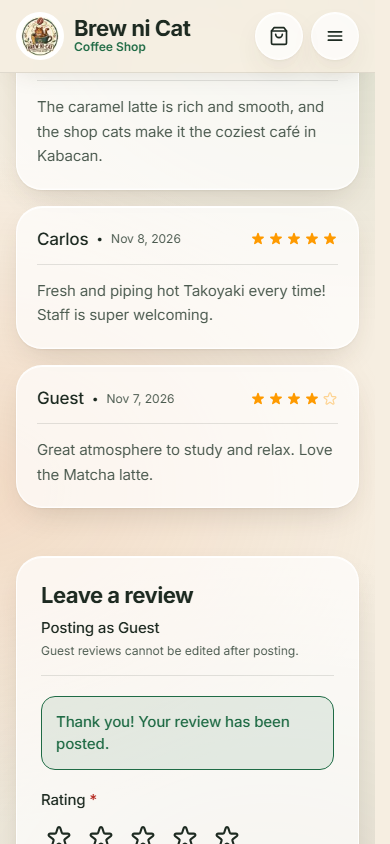
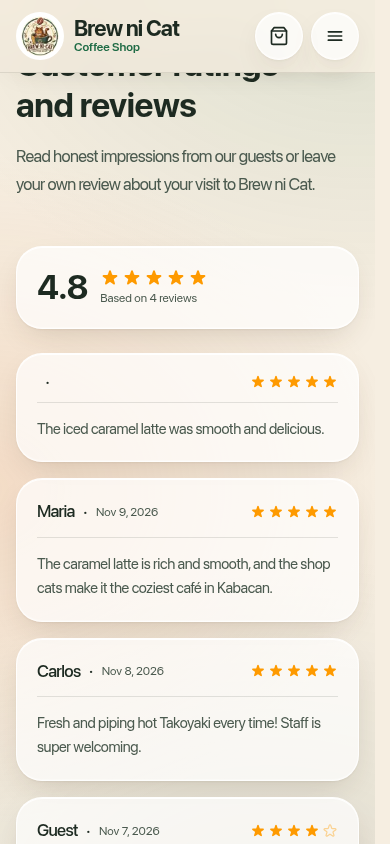
feat(reviews): give the reviews their own page (#135)
* feat(reviews): give the reviews their own page

Add /reviews with the reviews list and form, point the navigation, the home
page's Read all reviews link and the page curtain to it, and forward old
/about#reviews links there.

* docs(reviews): record the reviews page and refresh its evidence

diff --git a/tests/e2e/home-reviews.spec.ts b/tests/e2e/home-reviews.spec.ts
@@ -7,7 +7,7 @@ import { expect, test, type Page } from "@playwright/test";
  * PostgREST is mocked in the browser, so no live database or personal
  * details are used.
  *
- * Set CAPTURE_EVIDENCE=1 to refresh the screenshots in docs/evidence/phase-5/reviews-home/.
+ * Set CAPTURE_EVIDENCE=1 to refresh the screenshots in docs/evidence/phase-5/reviews-home/ (the Reviews page shots too).
  */
 const CAPTURE_EVIDENCE = process.env.CAPTURE_EVIDENCE === "1";
 const EVIDENCE_DIR = "docs/evidence/phase-5/reviews-home";
@@ -82,7 +82,7 @@ async function captureEvidence(page: Page, filename: string) {
 }
 
 async function expectReviewsSectionInView(page: Page) {
-  await expect(page).toHaveURL(/\/about#reviews$/);
+  await expect(page).toHaveURL(/\/reviews$/);
   await expect(page.locator("#reviews")).toBeInViewport();
 }
 
@@ -121,7 +121,7 @@ test.describe("Reviews on the home page (FR-098)", () => {
     await expectReviewsSectionInView(page);
   });
 
-  test("TC-P5-209 — the Reviews link in the desktop and phone navigation opens the reviews on the About page", async ({
+  test("TC-P5-209 — the Reviews link in the desktop and phone navigation opens the Reviews page", async ({
     page,
   }) => {
     await mockReviewsRest(page);
@@ -132,7 +132,7 @@ test.describe("Reviews on the home page (FR-098)", () => {
       name: "Desktop navigation",
     });
     const link = desktop.getByRole("link", { name: "Reviews" });
-    await expect(link).toHaveAttribute("href", "/about#reviews");
+    await expect(link).toHaveAttribute("href", "/reviews");
     await expect(link).toBeVisible();
     const overflow = await page.evaluate(
       () => document.documentElement.scrollWidth - window.innerWidth,
@@ -152,5 +152,44 @@ test.describe("Reviews on the home page (FR-098)", () => {
     await captureEvidence(page, "nav-reviews-phone-390.png");
     await mobileLink.click();
     await expectReviewsSectionInView(page);
+  });
+});
+
+test.describe("The Reviews page (FR-098, update 2026-11-13)", () => {
+  test("TC-P5-217 — reviews have their own page, and old /about#reviews links forward to it", async ({
+    page,
+  }) => {
+    await mockReviewsRest(page);
+    for (const [width, height, name] of [
+      [390, 844, "reviews-page-phone-390.png"],
+      [1440, 900, "reviews-page-desktop-1440.png"],
+    ] as const) {
+      await page.setViewportSize({ width, height });
+      await page.goto("/reviews");
+      await expect(
+        page.getByRole("heading", { level: 1, name: "Reviews" }),
+      ).toBeVisible();
+      const section = page.locator("#reviews");
+      await expect(section.getByText(BODIES[0]!)).toBeVisible();
+      await expect(
+        section.getByRole("heading", { name: "Customer ratings and reviews" }),
+      ).toBeVisible();
+      const overflow = await page.evaluate(
+        () => document.documentElement.scrollWidth - window.innerWidth,
+      );
+      expect(overflow).toBeLessThanOrEqual(0);
+      await section.scrollIntoViewIfNeeded();
+      await captureEvidence(page, name);
+    }
+
+    await page.goto("/about");
+    await expect(
+      page.getByRole("heading", { level: 1, name: "About Brew ni Cat" }),
+    ).toBeVisible();
+    await expect(page.locator("#reviews")).toHaveCount(0);
+
+    await page.goto("/about#reviews");
+    await expect(page).toHaveURL(/\/reviews$/);
+    await expect(page.locator("#reviews")).toBeVisible();
   });
 });

diff --git a/tests/unit/reviews-page.test.tsx b/tests/unit/reviews-page.test.tsx
@@ -1,0 +1,56 @@
+import { render, screen } from "@testing-library/react";
+import { afterEach, describe, expect, it, vi } from "vitest";
+
+import ReviewsPage from "@/app/reviews/page";
+import { ReviewsHashRedirect } from "@/components/reviews/reviews-hash-redirect";
+import { siteConfig } from "@/config/site";
+
+vi.mock("@/components/reviews/reviews-section", () => ({
+  ReviewsSection: () => <section id="reviews" data-testid="reviews-section" />,
+}));
+
+vi.mock("@/components/ui/page-intro", () => ({
+  PageIntro: ({ title }: { title: string }) => <h1>{title}</h1>,
+}));
+
+describe("The Reviews page (FR-098, update 2026-11-13)", () => {
+  afterEach(() => {
+    vi.unstubAllGlobals();
+  });
+
+  it("TC-P5-213 has its own page with the reviews list and form", () => {
+    render(<ReviewsPage />);
+    expect(
+      screen.getByRole("heading", { level: 1, name: "Reviews" }),
+    ).toBeInTheDocument();
+    expect(screen.getByTestId("reviews-section")).toBeInTheDocument();
+  });
+
+  it("TC-P5-214 the navigation's Reviews link opens /reviews, not About", () => {
+    const link = siteConfig.navigation.find((item) => item.label === "Reviews");
+    expect(link?.href).toBe("/reviews");
+  });
+
+  it("TC-P5-215 an old /about#reviews link forwards to /reviews", () => {
+    const replace = vi.fn();
+    vi.stubGlobal("location", {
+      ...window.location,
+      hash: "#reviews",
+      replace,
+    });
+    render(<ReviewsHashRedirect />);
+    expect(replace).toHaveBeenCalledWith("/reviews");
+  });
+
+  it("TC-P5-216 the About page without the hash stays put", () => {
+    const replace = vi.fn();
+    const location = { ...window.location, hash: "", replace };
+    vi.stubGlobal("location", location);
+    render(<ReviewsHashRedirect />);
+    expect(replace).not.toHaveBeenCalled();
+    // ...until the hash changes to #reviews while About is open
+    location.hash = "#reviews";
+    window.dispatchEvent(new HashChangeEvent("hashchange"));
+    expect(replace).toHaveBeenCalledWith("/reviews");
+  });
+});

diff --git a/tests/e2e/reviews.spec.ts b/tests/e2e/reviews.spec.ts
@@ -108,7 +108,7 @@ async function captureEvidence(page: Page, filename: string) {
 }
 
 test.describe("Ratings and reviews (FR-098)", () => {
-  test("TC-P5-201 — customers can read reviews with average rating and star counts on the About page", async ({
+  test("TC-P5-201 — customers can read reviews with average rating and star counts on the Reviews page", async ({
     page,
   }) => {
     const reviews = [...initialMockReviews];
@@ -116,7 +116,7 @@ test.describe("Ratings and reviews (FR-098)", () => {
 
     // Desktop viewport
     await page.setViewportSize({ width: 1440, height: 900 });
-    await page.goto("/about");
+    await page.goto("/reviews");
 
     const reviewsSection = page.locator("#reviews");
     await expect(reviewsSection).toBeVisible();
@@ -186,7 +186,7 @@ test.describe("Ratings and reviews (FR-098)", () => {
     });
 
     await page.setViewportSize({ width: 1440, height: 900 });
-    await page.goto("/about");
+    await page.goto("/reviews");
 
     const reviewsSection = page.locator("#reviews");
     await reviewsSection.scrollIntoViewIfNeeded();
@@ -250,7 +250,7 @@ test.describe("Ratings and reviews (FR-098)", () => {
     });
 
     await page.setViewportSize({ width: 1440, height: 900 });
-    await page.goto("/about");
+    await page.goto("/reviews");
 
     const reviewsSection = page.locator("#reviews");
     await reviewsSection.scrollIntoViewIfNeeded();

diff --git a/tests/unit/reviews-preview.test.tsx b/tests/unit/reviews-preview.test.tsx
@@ -41,10 +41,10 @@ describe("Reviews on the home page (FR-098)", () => {
     expect(within(section).getByText("7 reviews")).toBeInTheDocument();
     expect(
       within(section).getByRole("link", { name: "Read all reviews" }),
-    ).toHaveAttribute("href", "/about#reviews");
+    ).toHaveAttribute("href", "/reviews");
     expect(
       within(section).getByRole("link", { name: "Leave a review" }),
-    ).toHaveAttribute("href", "/about#reviews");
+    ).toHaveAttribute("href", "/reviews");
   });
 
   it("TC-P5-205 with no reviews yet it invites the first one", async () => {
@@ -74,7 +74,7 @@ describe("Reviews on the home page (FR-098)", () => {
     await act(async () => fail(new Error("offline")));
     expect(
       screen.getByRole("link", { name: "Leave a review" }),
-    ).toHaveAttribute("href", "/about#reviews");
+    ).toHaveAttribute("href", "/reviews");
     expect(screen.queryAllByRole("article")).toHaveLength(0);
     expect(screen.queryByText("No reviews yet. Be the first.")).toBeNull();
   });
@@ -82,7 +82,7 @@ describe("Reviews on the home page (FR-098)", () => {
   it("TC-P5-207 the menu and the footer link to the reviews", () => {
     expect(siteConfig.navigation).toContainEqual({
       label: "Reviews",
-      href: "/about#reviews",
+      href: "/reviews",
     });
   });
 });

diff --git a/src/app/reviews/page.tsx b/src/app/reviews/page.tsx
@@ -1,0 +1,34 @@
+import type { Metadata } from "next";
+
+import { ReviewsSection } from "@/components/reviews/reviews-section";
+import { PageIntro } from "@/components/ui/page-intro";
+import { siteConfig } from "@/config/site";
+
+export const metadata: Metadata = {
+  title: "Reviews",
+  description: `Ratings and reviews from ${siteConfig.shortName} customers, and a form to leave your own.`,
+};
+
+/**
+ * Customer ratings and reviews on their own page (FR-098, update
+ * 2026-11-13): the list with the average rating and the review form, moved
+ * here from the About page.
+ */
+export default function ReviewsPage() {
+  return (
+    <>
+      <PageIntro
+        mood="about"
+        eyebrow="Community voices"
+        title="Reviews"
+        description={
+          <p>
+            What customers say about {siteConfig.shortName}. Been here? Tell us
+            how your visit went.
+          </p>
+        }
+      />
+      <ReviewsSection />
+    </>
+  );
+}

diff --git a/src/components/reviews/reviews-preview.tsx b/src/components/reviews/reviews-preview.tsx
@@ -17,7 +17,7 @@ export const HOME_REVIEW_COUNT = 3;
 /**
  * The newest reviews and the average rating on the home page (FR-098), so
  * customers find the reviews without opening the About page. The full list
- * and the form stay on `/about#reviews`. If the reviews can't load, only the
+ * and the form are on `/reviews`. If the reviews can't load, only the
  * two links show.
  */
 export function ReviewsPreview() {
@@ -76,11 +76,11 @@ export function ReviewsPreview() {
         ) : null}
 
         <div className="flex flex-wrap gap-3">
-          <Link href="/about#reviews" className="button-primary">
+          <Link href="/reviews" className="button-primary">
             Leave a review
           </Link>
           {data && data.totalCount > 0 ? (
-            <Link href="/about#reviews" className="button-ghost">
+            <Link href="/reviews" className="button-ghost">
               Read all reviews
             </Link>
           ) : null}

diff --git a/src/app/about/page.tsx b/src/app/about/page.tsx
@@ -5,7 +5,7 @@ import Link from "next/link";
 import { Container } from "@/components/ui/container";
 import { PageIntro } from "@/components/ui/page-intro";
 import { Reveal } from "@/components/ui/reveal";
-import { ReviewsSection } from "@/components/reviews/reviews-section";
+import { ReviewsHashRedirect } from "@/components/reviews/reviews-hash-redirect";
 import { SectionHeading } from "@/components/ui/section-heading";
 import { siteConfig } from "@/config/site";
 import { formatDate, hoursNotice, townLine } from "@/lib/site-content/format";
@@ -118,7 +118,7 @@ export default async function AboutPage() {
         </Container>
       </section>
 
-      <ReviewsSection />
+      <ReviewsHashRedirect />
 
       <section className="py-16 sm:py-20" aria-labelledby="about-visit-heading">
         <Container>

diff --git a/src/components/reviews/reviews-hash-redirect.tsx b/src/components/reviews/reviews-hash-redirect.tsx
@@ -1,0 +1,21 @@
+"use client";
+
+import { useEffect } from "react";
+
+/**
+ * Old links to `/about#reviews` (shared before the reviews got their own
+ * page on 2026-11-13) open `/reviews` instead, whether the page loads with
+ * the hash or only the hash changes while About is open.
+ */
+export function ReviewsHashRedirect() {
+  useEffect(() => {
+    const forward = () => {
+      if (window.location.hash === "#reviews")
+        window.location.replace("/reviews");
+    };
+    forward();
+    window.addEventListener("hashchange", forward);
+    return () => window.removeEventListener("hashchange", forward);
+  }, []);
+  return null;
+}

diff --git a/tests/e2e/foundation.spec.ts b/tests/e2e/foundation.spec.ts
@@ -65,6 +65,7 @@ test("TC-P1-007 — public routes preserve the shared application shell", async 
   const routes = [
     { path: "/menu", heading: "Menu" },
     { path: "/about", heading: "About Brew ni Cat" },
+    { path: "/reviews", heading: "Reviews" },
     { path: "/gallery", heading: "Gallery" },
     { path: "/contact", heading: "Contact & location" },
   ];
@@ -140,6 +141,7 @@ test("TC-P1-009 — key public pages avoid horizontal viewport overflow", async 
       "/",
       "/menu",
       "/about",
+      "/reviews",
       "/gallery",
       "/contact",
       "/cart",

diff --git a/src/config/site.ts b/src/config/site.ts
@@ -11,7 +11,7 @@ export const siteConfig = {
     { label: "Home", href: "/" },
     { label: "Menu", href: "/menu" },
     { label: "About", href: "/about" },
-    { label: "Reviews", href: "/about#reviews" },
+    { label: "Reviews", href: "/reviews" },
     { label: "Gallery", href: "/gallery" },
     { label: "Contact", href: "/contact" },
   ],

diff --git a/src/components/motion/route-curtain.tsx b/src/components/motion/route-curtain.tsx
@@ -18,6 +18,7 @@ const TITLES: Readonly<Record<string, string>> = {
   "/": "Brew ni Cat",
   "/menu": "The Menu",
   "/about": "Our Story",
+  "/reviews": "Reviews",
   "/gallery": "Gallery",
   "/contact": "Find Us",
   "/cart": "Your Order",

diff --git a/docs/test-cases.md b/docs/test-cases.md
@@ -1408,9 +1408,19 @@ Customers could not find the reviews, because they were only near the bottom of 
 | TC-P5-204 | FR-098 | The home page loads with seven reviews | Shows the average rating 4.6, "7 reviews", the newest three reviews, and the links Leave a review and Read all reviews | Passed (automated) |
 | TC-P5-205 | FR-098 | The home page loads with no reviews | Shows "No reviews yet. Be the first." and Leave a review, without Read all reviews | Passed (automated) |
 | TC-P5-206 | FR-098 | The reviews can't be loaded | The home page still shows Leave a review, with no error and no empty message | Passed (automated) |
-| TC-P5-207 | FR-098 | The site navigation | Has a Reviews link to `/about#reviews`, used by the header, the phone menu and the footer | Passed (automated) |
-| TC-P5-208 | FR-098 | Browser test at 390 and 1440 pixels wide | The home block shows the average, the count and three reviews without sideways scrolling; Read all reviews opens `/about#reviews` with the reviews in view | Passed (automated) |
-| TC-P5-209 | FR-098 | Browser test of the Reviews link in the desktop menu (1024 and 1440) and the phone menu (390) | The link fits without sideways scrolling and opens `/about#reviews` with the reviews in view | Passed (automated) |
+| TC-P5-207 | FR-098 | The site navigation | Has a Reviews link to `/reviews`, used by the header, the phone menu and the footer | Passed (automated) |
+| TC-P5-208 | FR-098 | Browser test at 390 and 1440 pixels wide | The home block shows the average, the count and three reviews without sideways scrolling; Read all reviews opens `/reviews` with the reviews in view | Passed (automated) |
+| TC-P5-209 | FR-098 | Browser test of the Reviews link in the desktop menu (1024 and 1440) and the phone menu (390) | The link fits without sideways scrolling and opens `/reviews` with the reviews in view | Passed (automated) |
+
+Update 2026-11-13: the reviews moved from the About page to their own page, `/reviews`, at the team's request. TC-P5-207 to TC-P5-209 now expect `/reviews` instead of `/about#reviews`. An old `/about#reviews` link forwards to `/reviews`.
+
+| ID | Requirement | Scenario | Expected result | Status |
+| --- | --- | --- | --- | --- |
+| TC-P5-213 | FR-098 | `/reviews` page | Has its own heading "Reviews", the reviews list and the review form | Passed (automated) |
+| TC-P5-214 | FR-098 | The site navigation | The Reviews link opens `/reviews`, not the About page | Passed (automated) |
+| TC-P5-215 | FR-098 | `/about#reviews` (an old link) | Forwards to `/reviews` | Passed (automated) |
+| TC-P5-216 | FR-098 | `/about` without the hash, then the hash changes to `#reviews` | Stays on About until the hash changes, then forwards to `/reviews` | Passed (automated) |
+| TC-P5-217 | FR-098 | Browser test at 390 and 1440 pixels wide | `/reviews` shows the reviews without sideways scrolling; `/about#reviews` lands on `/reviews`; evidence `docs/evidence/phase-5/reviews-home/reviews-page-{phone-390,desktop-1440}.png` | Passed (automated) |
 
 ## 50. Ad Slot For The Mini-Games Cases (2026-11-10)
 
